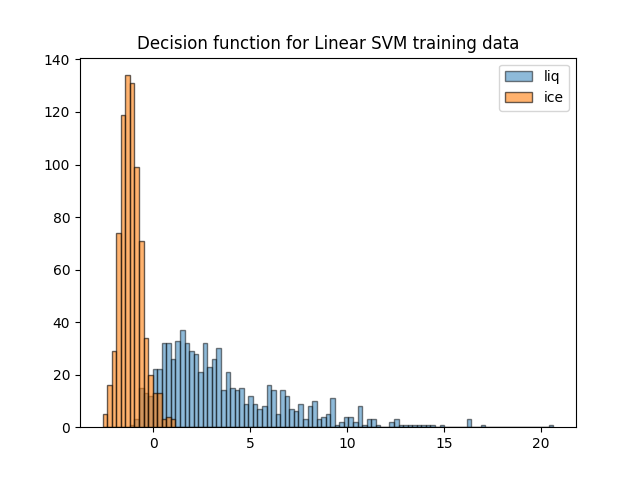
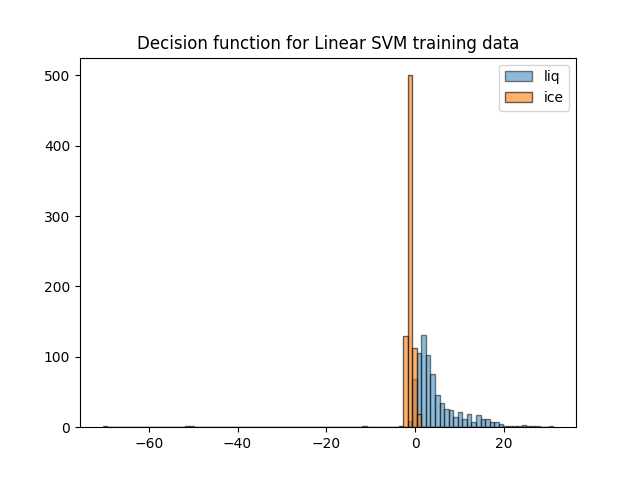
added normalized decision boundary histogram, as well as for svm trained on fake rsfs

diff --git a/rsf_svm.py b/rsf_svm.py
@@ -81,29 +81,40 @@ def validation_curve(X, y, fname="linearsvm_validation.png"):
     plot_scores(train_scores, test_scores, "Validation Curve with SVM", param_range, 
                 fname, plt.semilogx, "C")
 
-def plot_SVM_confidence(X, y):
+def plot_SVM_confidence(X, y, sep_val_confidence=False, X_val=None, y_val=None, fname="confidence.png", title="Decision Function"):
+    if not sep_val_confidence:
+        X_val = X
+        y_val = y
     clf = svm.LinearSVC(C=10)
     clf.fit(X,y)
-    confidence = clf.decision_function(X)
+    confidence = clf.decision_function(X_val)
     maxconf = confidence.max()
     minconf = confidence.min()
+    
     bins = np.linspace(minconf, maxconf, 100)
-    plt.hist(confidence[y==1], bins=bins, alpha=.5, label="liq", edgecolor="k")
-    plt.hist(confidence[y==0], bins=bins, alpha=.6, label="ice", edgecolor="k")
-    plt.title("Decision function for Linear SVM training data")
+    plt.hist(confidence[y_val==1], bins=bins, alpha=.5, label="liq", edgecolor="k")
+    plt.hist(confidence[y_val==0], bins=bins, alpha=.6, label="ice", edgecolor="k")
+    plt.title(title)
     plt.legend(loc="best")
-    plt.savefig("confidence.png")
+    plt.savefig(fname)
     plt.clf()
 
 X_train, y_train, X_val, y_val, hdrs = compile_rsfs_data()
 #pdb.set_trace()
-#pseudo_X = rsf_load_data.pseudo_rsfs_data(X_train, y_train, hdrs)
-#scaler, X_train = rsf_load_data.scale_data(X_train)
-#pseudo_scaler, pseudo_X = rsf_load_data.scale_data(pseudo_X)
+pseudo_X = rsf_load_data.pseudo_rsfs_data(X_train, y_train, hdrs)
+scaler, X_train = rsf_load_data.scale_data(X_train)
+pseudo_scaler, pseudo_X = rsf_load_data.scale_data(pseudo_X)
 #validation_curve(pseudo_X, y_train, "pseudorsfs_linearsvm_validation.png")
 #learning_curve(pseudo_X, y_train, fname="pseudorsfs_linearsvm_learning.png")
 
-plot_SVM_confidence(X_train, y_train)
+plot_SVM_confidence(pseudo_X, y_train, 
+                    sep_val_confidence=True,
+                    X_val=pseudo_scaler.transform(X_val), y_val=y_val, 
+                    fname="fake_confidence.png", 
+                    title="Decision function for Linear SVM trained on fake RSFs")
+plot_SVM_confidence(X_train, y_train,
+                    fname="confidence.png", 
+                    title="Decision function for Linear SVM training data")
 #simple_SVM(X_train, y_train, X_val, y_val)
 #simple_SVM(pseudo_X, y_train, pseudo_scaler.transform(X_train), y_train)
 #simple_SVM(X_train, y_train, scaler.transform(X_val), y_val)
